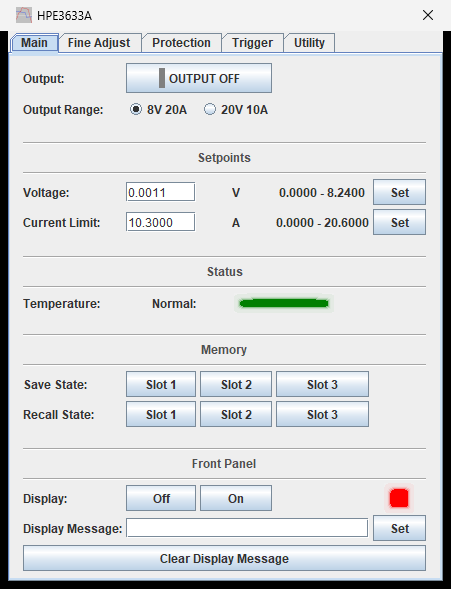
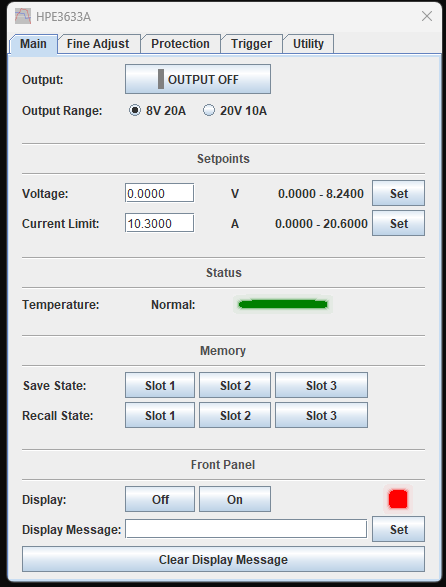
E363xA 1.4: RS-232 support and logging modes
- RS-232 over TestController's serial path: null-modem wiring, no
  hardware flow control, SYST:REM asserted on connect
- [20] inter-command pacing on every logged query and setup-panel
  read, which the serial path requires
- Two logging modes from the mode menu: Log All (five channels,
  default) and Log V and I only, locked while a log is running

Changed region(s): [[0.0, 0.0, 1.0, 1.0], [0.4955, 0.368, 0.5538, 0.3986]]

diff --git a/drivers/HP_Agilent_E363xA/instrument-notes.md b/drivers/HP_Agilent_E363xA/instrument-notes.md
@@ -1,7 +1,7 @@
 # HP / Agilent / Keysight E363xA — instrument notes
 
-Behaviour of the E363xA command set that is not obvious from the manual, found while
-building the driver and verifying it against an E3633A (firmware 1.6-5.0-1.0) over GPIB.
+Behaviour of the E363xA supplies worth knowing when using this driver. These are
+characteristics of the instrument and the driver's design, not of TestController.
 
 ---
 
@@ -21,25 +21,19 @@ which side the hardware is on:
 | 3 | Regulation fault |
 
 Those bits are **not latched**, so each reading is the live state. The driver exposes
-this both as the `Regulation` value channel and as a readout.
-
-Any driver offering CV and CC as selectable *modes* is writing the same `VOLT`/`CURR`
-registers under two names.
+this both as the `Regulation` logged channel and as a readout.
 
 ---
 
 ## The supply does not enforce its own range
 
 Setpoints are validated against the **model** maximum, not the selected range. On an
-E3633A this is accepted without error:
+E3633A, `VOLT 15` in the 8 V range and `CURR 15` in the 20 V range are both accepted
+without error; only values beyond the model maximum are rejected (`-222,"Data out of
+range"`).
 
-- in the **8 V** range: `VOLT 15` — above the 8.24 V ceiling
-- in the **20 V** range: `CURR 15` — above the 10.3 A ceiling
-
-Only values beyond the model maximum are rejected (`-222,"Data out of range"`).
-
-This is why the driver carries per-range ceilings. Offering the model's full span lets a
-value be set that the active range cannot deliver, silently.
+The driver therefore carries per-range ceilings and shows them beside each setpoint
+field, so a value the active range cannot deliver cannot be entered by accident.
 
 | E3633A | Voltage | Current |
 | --- | --- | --- |
@@ -49,34 +43,10 @@ value be set that the active range cannot deliver, silently.
 
 ---
 
-## A rejected query reports its error one command late
-
-A query the supply rejects leaves a pending unread response. Its
-`-420,"Query UNTERMINATED"` then surfaces on the **next** error read, not its own.
-
-When probing this family, read `SYST:ERR?` after every single query — otherwise the
-blame lands on the following command and a healthy command looks broken. A failure on
-the first query of a run is usually a stale queue entry rather than a real fault.
-
----
-
-## Step queries reject MIN, MAX and DEF
-
-`VOLT:STEP DEF` is a valid *setting*, but `VOLT:STEP? DEF` — and `? MIN` and `? MAX` —
-are not valid queries. Only the bare `VOLT:STEP?` and `CURR:STEP?` work.
-
-`VOLT? MAX` and `CURR? MAX` *do* work, and follow the selected range, which is how the
-ceilings above were measured.
-
-The instrument's own finest steps are 0.0003644 V and 0.0003802 A.
-
----
-
 ## Changing range switches the output off
 
-`VOLT:RANG` turns the output off before changing. The driver does this explicitly rather
-than relying on it, so a low-range high-current setup is never carried into high-range
-voltage conditions.
+`VOLT:RANG` turns the output off before changing. The driver does this explicitly, so a
+low-range high-current setup is never carried into high-range voltage conditions.
 
 Switching to a range with a lower ceiling also **clips** the existing setpoint — going to
 P20V with the current set to 20 A leaves it at 10.3 A, and switching back does not
@@ -84,11 +54,49 @@ restore it.
 
 ---
 
+## Step queries reject MIN, MAX and DEF
+
+`VOLT:STEP DEF` is a valid *setting*, but `VOLT:STEP? DEF` — and `? MIN` and `? MAX` —
+are not valid queries. Only the bare `VOLT:STEP?` and `CURR:STEP?` work. `VOLT? MAX` and
+`CURR? MAX` do work and follow the selected range. The instrument's finest steps are
+0.0003644 V and 0.0003802 A.
+
+---
+
+## Logged channels and the two logging modes
+
+Logging scope is selected from the **mode menu**:
+
+- **Log All** — Voltage, Current, VoltageSet, CurrentSet, Regulation (five channels)
+- **Log V and I only** — Voltage and Current (two channels)
+
+| Channel | Source | Meaning |
+| --- | --- | --- |
+| `Voltage`, `Current` | `MEAS:VOLT?`, `MEAS:CURR?` | what the terminals are doing |
+| `VoltageSet`, `CurrentSet` | `VOLT?`, `CURR?` | what the supply was asked for |
+| `Regulation` | `STAT:QUES:COND?` | which side it is regulating on |
+
+Charting a measurement against its setpoint shows the output sagging away from the demand
+under load. `Regulation` catches the moment a load pulls the supply from constant voltage
+into constant current, which is invisible from voltage and current alone.
+
+**Log All** is the default and suits a single supply. Switch to **Log V and I only** when
+several instruments share one logging interval and the full five-channel cycle no longer
+fits the interval. Logging scope is a mode rather than a checkbox on purpose:
+TestController locks the mode while a log is running, so the set of columns cannot change
+partway through a log.
+
+A `MEAS:` query costs about twice a setpoint readback, because it triggers a fresh
+conversion, so logging fewer channels is the way to log faster.
+
+---
+
 ## Remote and local
 
 GPIB and RS-232 are both built in, but only one is enabled at a time from the front
 panel. `SYST:REM` and `SYST:LOC` are **RS-232 only** — sending them over GPIB returns
-`+514,"Command allowed only with RS-232"`.
+`+514,"Command allowed only with RS-232"`. The driver keeps them off the GPIB path
+automatically.
 
 Connecting does not reset the supply. Disconnecting, and TestController's Output Off,
 disable the output but leave protection trips and the programmed state alone.
@@ -100,77 +108,39 @@ RS-232 connector, and the manual warns against using RS-232 when those are confi
 
 ## Using it over RS-232
 
-Verified against an E3633A: all 26 of the driver's read queries answer correctly over
-serial, with a clean error queue.
+The driver works over RS-232 as well as GPIB. Three things must be right, and all three
+fail the same way — the port opens, writes appear to succeed, and nothing ever replies:
 
-Three things are easy to get wrong, and all three fail in exactly the same way — the
-port opens, writes appear to succeed, and nothing ever replies:
+- **Switch the interface on the front panel** (`I/O Config` key). GPIB is the factory
+  default, only one interface is live at a time, and the choice is held in non-volatile
+  memory. Selecting RS-232 removes the supply from the GPIB bus until you switch back.
+- **Use a null-modem cable.** The supply is a DTE device and so is a PC, so it needs a
+  DTE-to-DTE crossover cable, DB-9 female on both ends. A straight-through cable is
+  silently inert.
+- **Do not enable hardware flow control.** The driver's `#baudrate 9600N82RD` asserts
+  DTR and RTS and leaves flow control off, which is the "no handshake" wiring the manual
+  prescribes. With hardware flow control the command goes out but the supply never
+  replies.
 
-- **The interface must be switched on the front panel** (`I/O Config` key). GPIB is the
-  factory default, only one interface is live at a time, and the choice is held in
-  non-volatile memory. Selecting RS-232 removes the supply from the GPIB bus until you
-  switch it back.
-- **The cable must be null-modem.** The supply is a DTE device and so is a PC, so it
-  needs a DTE-to-DTE crossover cable, DB-9 female on both ends. A straight-through
-  cable is silently inert.
-- **Stop bits are fixed at 2.** Baud is 300–9600 (9600 default); parity/data is none/8
-  (default), even/7 or odd/7. The driver's `SerialInit` sends the required `SYST:REM`
-  automatically, and only when the port is not GPIB.
-- **Do not enable hardware flow control.** The driver uses `#baudrate 9600N82D` — `D`
-  asserts DTR and leaves flow control off. On a null-modem cable our DTR drives the
-  supply's DSR, which is what the manual prescribes for running without the handshake
-  ("tie the DSR line to logic TRUE"). With hardware flow control the command goes out
-  correctly but the supply never replies. Measured: no flow control and a DTR/DSR
-  handshake both gave 500 clean queries; RTS/CTS timed out every time.
+Stop bits are fixed at 2. Baud is 300–9600 (9600 default); parity/data is none/8
+(default), even/7 or odd/7. `SerialInit` sends `SYST:REM` automatically, and only when
+the port is not GPIB.
 
 If you sweep baud rates hunting for the right setting, expect `+511,"RS-232 framing
-error"` in the queue afterwards and the front-panel **ERROR** annunciator lit. That is
-the wrong-baud bytes reaching the UART, not a fault — read the error queue empty to
-clear it.
+error"` in the queue afterwards and the front-panel **ERROR** annunciator lit — the
+wrong-baud bytes reaching the UART, not a fault. Read the error queue empty to clear it.
 
-### Speed
+RS-232 runs a little slower than GPIB (roughly +20 ms per exchange at 9600 baud) but
+sustains one-second five-channel logging comfortably.
 
-Measured at 9600 baud, and it is closer to GPIB than expected:
+---
 
-| | RS-232 | GPIB |
-| :--- | ---: | ---: |
-| `MEAS:VOLT?` | 144.0 ms | 119.8 ms |
-| `VOLT?` (setpoint) | 72.6 ms | 54.5 ms |
-| All five logged channels | 495 ms | 399 ms |
+## A rejected query reports its error one command late
 
-About **1.24× slower**, a roughly flat +20 ms per exchange. Over a 400-cycle soak the
-serial path sustained **1.96 readings/second** with all five channels, with 0 bad
-replies in 2000 queries and a p99 within 2 ms of the median.
-
-**Remote mode makes the supply 1.8× faster.** Servicing the front panel costs real
-time, and `SYST:REM` disables it:
-
-| | `MEAS:VOLT?` | Five channels |
-| :--- | ---: | ---: |
-| Local (front panel live) | 222.1 ms | 909.5 ms |
-| Remote (`SYST:REM`) | 146.0 ms | 502.7 ms |
-
-The driver sends `SYST:REM` on connect, so logging gets the fast path. It matters
-mainly when interpreting a measurement taken before the driver has initialised — TC's
-identification scan runs first, so `*IDN?` is answered in local mode. (It *is* answered:
-`SYST:REM` is not required in order to get a reply, despite the manual's warning about
-communicating outside remote mode.)
-
-Note that a *measurement* costs about twice what a setpoint readback does on either
-transport, because `MEAS:` triggers a fresh conversion. Cost scales with the number of
-queries, so logging fewer channels is the way to log faster.
-
-### No inter-command delays are needed
-
-Some drivers for this family put a fixed ~20 ms delay after every command. Measured on
-this one, that is unnecessary on both transports:
-
-- 300 write-then-read cycles on the setpoint at 0 ms settling: **zero** mismatched
-  readbacks, no queued errors. Same at 5/10/20/50 ms.
-- 40 `VOLT:RANG` changes read back at 0 ms settling: **zero** wrong values.
-- 120 randomised GPIB address switches with no settling: zero bad replies.
-
-So a readback taken immediately after a write reflects the write.
+A query the supply rejects leaves a pending unread response, and its
+`-420,"Query UNTERMINATED"` then surfaces on the **next** error read rather than its own.
+When reading `SYST:ERR?` by hand, a failure reported against a healthy command is usually
+a stale queue entry from the command before it.
 
 ---
 

diff --git a/drivers/HP_Agilent_E363xA/README.md b/drivers/HP_Agilent_E363xA/README.md
@@ -10,7 +10,7 @@ from the data sheet.
 | | |
 | --- | --- |
 | **Driver** | [`HP_Agilent_E363xA.txt`](HP_Agilent_E363xA.txt) |
-| **Revision** | 1.3 |
+| **Revision** | 1.4 |
 | **Interface** | GPIB, RS-232 |
 | **Instrument notes** | [`instrument-notes.md`](instrument-notes.md) |
 
@@ -92,8 +92,12 @@ consumes what it reads: popping the error queue removes the entry.
 
 ## Logged channels
 
-Five channels rather than the obvious two, because a test cannot usually be re-run to
-recover a value nobody thought to record:
+Logging scope is chosen from the **mode menu**:
+
+![Mode menu](screenshots/e363xa-modes.png)
+
+- **Log All** — five channels (default)
+- **Log V and I only** — Voltage and Current
 
 | Channel | Source | Why |
 | --- | --- | --- |
@@ -106,8 +110,11 @@ under load. `Regulation` catches the moment a load pulls the supply out of const
 voltage into constant current — usually the point of the test, and invisible from voltage
 and current alone when the limit sits where the load settles.
 
-It costs five GPIB round trips per reading. `#readingDelay 2` hides that; drop the delay
-for fast logging and it becomes the limit.
+**Log V and I only** trims the cycle to the two measured channels for when several
+instruments share one logging interval and the full five-channel cycle no longer fits.
+Because it is a mode, not a checkbox, TestController locks it while a log is running, so a
+log's columns cannot change partway through. See
+[`instrument-notes.md`](instrument-notes.md).
 
 ---
 
